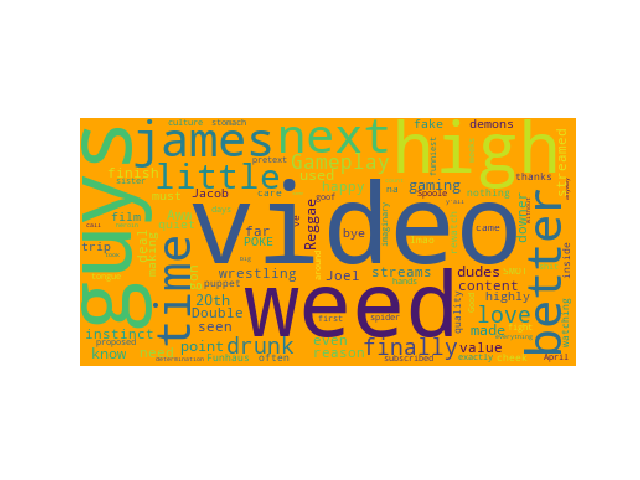
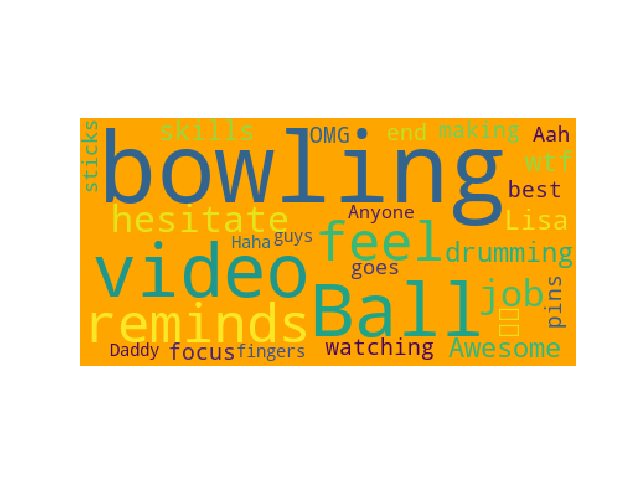
5/6/2018 10:16

Changed region(s): [[0.125, 0.25, 0.9062, 0.75]]

diff --git a/ng-dashboard/app/contentScript/webView/query.js b/ng-dashboard/app/contentScript/webView/query.js
@@ -31,7 +31,7 @@ let cfq = new ContentFrame({
     'id':'webview-query',
     // 'appendTo': '#webdataview-floating-widget',
     'css': ['lib/font-awesome/css/font-awesome.css'],
-    'inlineCss': {"width": "25%", "height": "185px", "position": "fixed", "right": "0px", "top": "0px", "z-index": 2147483647, "border-style": "none", "border-radius": 0, "background": "transparent", "display": "display"}
+    'inlineCss': {"width": "30%", "height": "185px", "position": "fixed", "right": "0px", "top": "0px", "z-index": 2147483647, "border-style": "none", "border-radius": 0, "background": "transparent", "display": "display"}
 }, function(){
     // alert('callback called immediately after ContentFrame created');
     console.log("cf created successfully!");
@@ -39,6 +39,7 @@ let cfq = new ContentFrame({
 let show_me_flag = false;
 let cfq_iframe = cfq.body;
 let target_query = [];
+let fix_height = 185;
 let query_dom_element = null;
 let port = chrome.runtime.connect({name: "knockknock"});
 
@@ -181,8 +182,10 @@ $(document).ready(function() {
                                             }
 
                                             if(result !== ''){
-                                                $('#webview-query').css('height','210px');
-                                                let messageDesc1 = $.parseHTML('<p style="height: 25px; width: 100%; display: block; color: #f44b42;" id="messageDesc1">' + result + '</p>');
+                                                if($('#webview-query').height() < 200){
+                                                    $('#webview-query').css('height','210px');
+                                                }
+                                                let messageDesc1 = $.parseHTML('<p style="height: 15px; width: 100%; display: block; color: #f44b42;" id="messageDesc1">' + result + '</p>');
                                                 ContentFrame.findElementInContentFrame('#messageDesc1','#webview-query').replaceWith(messageDesc1);
                                             }       
                                     }
@@ -196,6 +199,7 @@ $(document).ready(function() {
                                             }
                                             if(result !== ''){
                                                 let new_height = data.msg.length * 26 + 195 + 'px';
+                                                fix_height = new_height;
                                                 $('#webview-query').css('height', new_height);
                                                 new_height = data.msg.length * 26 + 'px';
                                                 ContentFrame.findElementInContentFrame('#messageDesc2','#webview-query').val(result);
@@ -267,13 +271,15 @@ $(document).ready(function() {
                                 
                                 ContentFrame.findElementInContentFrame('#show_graph','#webview-query').click(function(e){
                                     if(ContentFrame.findElementInContentFrame('#imgElem','#webview-query').css('display') === 'block'){
-                                        $('#webview-query').css('height','185px');
-                                        $('#webview-query').css('width','25%');
+                                        $('#webview-query').css('height', fix_height + 'px');
+                                        $('#webview-query').css('width','30%');
                                         ContentFrame.findElementInContentFrame('#imgElem','#webview-query').css('display', 'none');
                                         ContentFrame.findElementInContentFrame('#show_graph','#webview-query').html("Show Graph");
                                     }
                                     else{
-                                        $('#webview-query').css('height','545px');
+                                        let current_height = $('#webview-query').height();
+                                        current_height = 640 + current_height + 'px';
+                                        $('#webview-query').css('height',current_height);
                                         $('#webview-query').css('width','35%');
                                         ContentFrame.findElementInContentFrame('#imgElem','#webview-query').css('display', 'block');
                                         ContentFrame.findElementInContentFrame('#show_graph','#webview-query').html("Hide Graph");

diff --git a/ng-dashboard/app/contentScript/webView/index.html b/ng-dashboard/app/contentScript/webView/index.html
@@ -39,25 +39,33 @@
                         </div>
                     </div>
                 </form> -->
-              
-                <form id ="messageFormDesc" style="margin-bottom: 0px;">
-                    <div class="form-group">
-                        <div>
-                            <label>Enter Number of Comments for Sentiment Analysis:</label>
-                            <button style="background-color: #dff441 !important; float: right; color: black; display: none" class="btn btn-success" id="chinese">中文</button><br>
-                            <input style="height: 30px; width: 140px; display: inline-block; float: left; bottom: 2px;" id="messageName" placeholder="# of Comments"></input>
-                            <input style="background-color: #FF6037 !important; float: right;" type="submit" class="btn btn-warning" value="Sentiment Analysis" />
-                            <button style="background-color: #89f442 !important; float: right; color: black; display: block" class="btn btn-success" id="senti_graph">Sentiment Graph</button>
-                            <button style="background-color: #89f442 !important; float: right; color: black; display: none" class="btn btn-success" id="show_graph">Show Graph</button>
+                <label>Enter Number of Comments for Sentiment Analysis:</label><br>
+                <div style="display: flex; height: 40px;">
+                    <div style="width: 75%">
+                        <form id ="messageFormDesc" style="margin-bottom: 0px;">
+                        <div class="form-group">
+                            <div>
+                                <input style="height: 30px; width: 140px; margin: 3px; display: inline-block; float: left; bottom: 2px;" id="messageName" placeholder="# of Comments"></input>  
+                                &nbsp;  &nbsp; 
+                                <input style="background-color: #FF6037 !important; float: left;" type="submit" class="btn btn-warning" value="Sentiment Analysis" />
+                                <button style="background-color: #dff441 !important; float: left; color: black; display: block" class="btn btn-success" id="chinese">中文</button><br>
+                            </div>
+                            <br>
                         </div>
-                        <br>
-                        <br>
-                        <div>
-                            <p style="height: 15px; width: 100%; display: none; color: red;" id="messageDesc1"></p>
-                            <textarea style="height: 45px; width: 100%; display: none; color: #414ff4;" id="messageDesc2"></textarea>
-                        </div>
+                        </form>     
                     </div>
-                </form>
+                    <div style="display:inline-block; width: 25%; float: left">
+                        <button style="background-color: #89f442 !important; float: right; color: black; display: block" class="btn btn-success" id="senti_graph">Sentiment Graph</button>
+                        <button style="background-color: #89f442 !important; float: right; color: black; display: none" class="btn btn-success" id="show_graph">Show Graph</button>     
+                    </div>
+                   
+                </div>
+                
+                <div>
+                    <p style="height: 15px; width: 100%; display: none; color: red;" id="messageDesc1"></p>
+                    <textarea style="height: 45px; width: 100%; display: none; color: #414ff4;" id="messageDesc2"></textarea>
+                </div>
+
                 <label for="subscribeNews">Summarize All the Comments into </label> 
                 <select id="topic_num" value="1">
                     <option value="1">1</option><option value="2">2</option><option value="3">3</option><option value="4">4</option><option value="5">5</option>

diff --git a/CommentSentiment/fancySentiment.py b/CommentSentiment/fancySentiment.py
@@ -1,3 +1,7 @@
+#@Dorothy Yu, @Herbert Wang, @Ruoxi Yang
+#Generate keyword graph using WordCloud
+#Citation: https://github.com/sachin-bisht/YouTube-Sentiment-Analysis 
+
 import string
 import nltk
 nltk.download('stopwords')
@@ -9,24 +13,35 @@ matplotlib.use('Agg')
 import matplotlib.pyplot as plt
 import base64
 
+
 def fancySentiment(comments):
 	stopword = set(stopwords.words('english') + list(string.punctuation) + ['n\'t'])
-	filtered_comments = []
+
+	#Filter through comments to remove stopwords
+	comments_wo_sw = []
+
 	for i in comments:
 		words = word_tokenize(i)
-		temp_filter = ""
+		current_comment = ""
 		for w in words:
 			if w not in stopword:
-				temp_filter += str(w)
-				temp_filter += ' '
-		filtered_comments.append(temp_filter)
-	filtered_comments_str = ' '.join(filtered_comments) 
-	sentiment = WordCloud(background_color = 'orange', max_words=100)
-	sentiment.generate(filtered_comments_str)
+				current_comment += str(w)
+				current_comment += ' '
+		comments_wo_sw.append(current_comment)
+
+	comments_to_str = ' '.join(comments_wo_sw) 
+
+	#Use WorkCloud website to generate a picture of key words
+	keywords = WordCloud(background_color = '#f4f442', max_words=150)
+	keywords.generate(comments_to_str)
+
+	#Plot the picture of key words
 	plt.figure()
-	plt.imshow(sentiment)
+	plt.imshow(keywords)
 	plt.axis("off")
-	plt.savefig('myfig')
-	with open("myfig.png", "rb") as image_file:
+	plt.savefig('keywords_fig')
+
+	#Encode generated image
+	with open("keywords_fig.png", "rb") as image_file:
 		encoded_string = base64.b64encode(image_file.read())
 		return encoded_string

diff --git a/CommentSentiment/sentimentYouTube.py b/CommentSentiment/sentimentYouTube.py
@@ -71,8 +71,8 @@ def sentiment(comments):
 			neg += 1
 
 	output = []
-	output.append("Positive sentiment : " + str(pos * 100.0 /len(comments)))
-	output.append("Negative sentiment : " + str((neg * 100.0 /len(comments))))
+	output.append("Positive sentiment : " + str(int(pos * 100.0 /len(comments))))
+	output.append("Negative sentiment : " + str(int(neg * 100.0 /len(comments))))
 	return output
 	# print ("Positive sentiment : ", (pos * 100.0 /len(comments)) )
 	# print ("Negative sentiment : ", (neg * 100.0 /len(comments)) )
